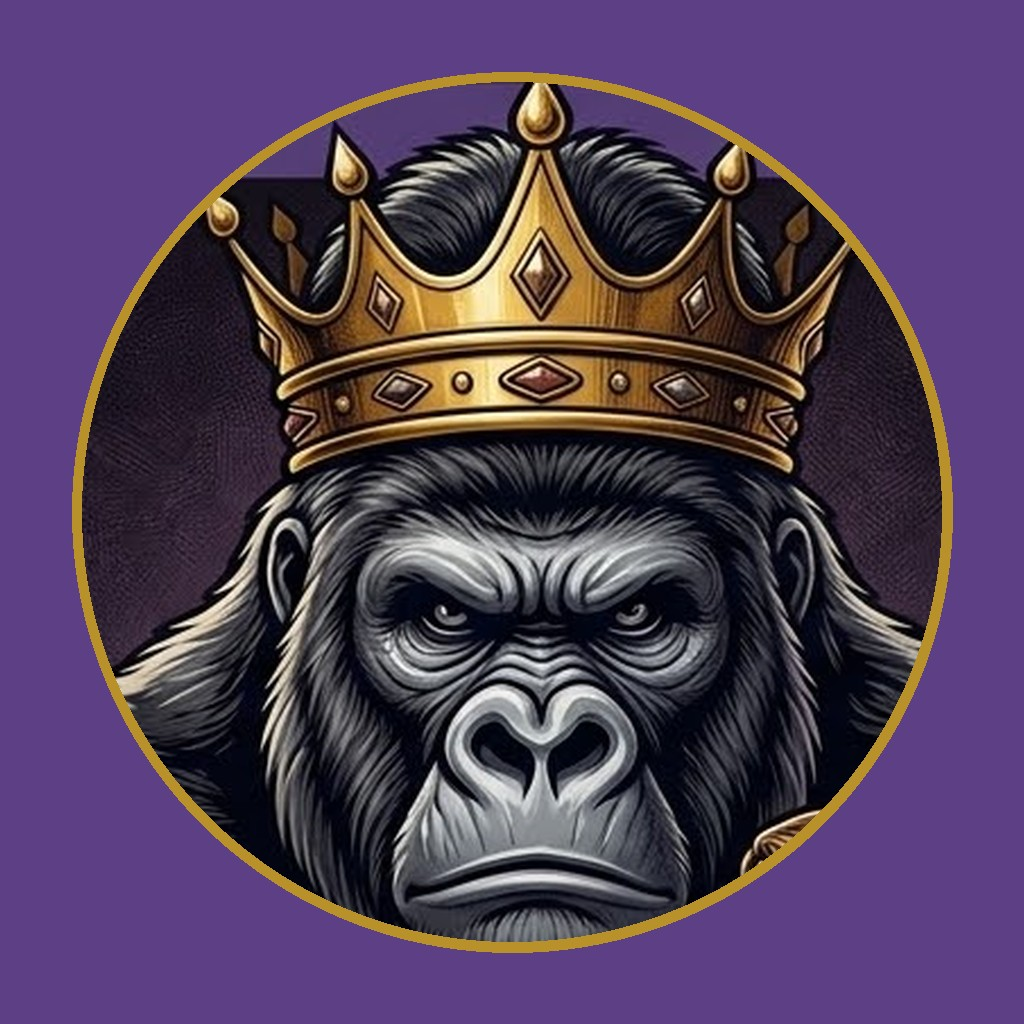
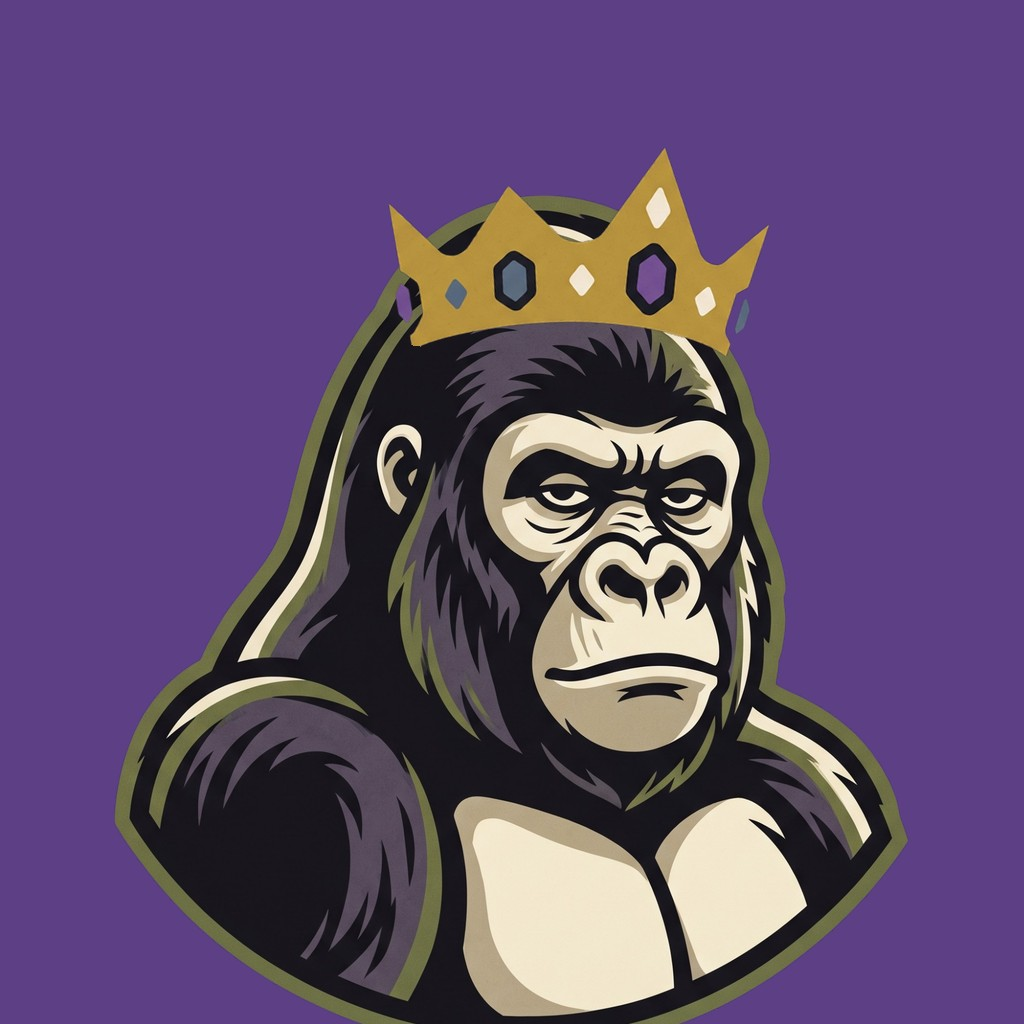
アイコンをゲーム中の絵（ゴリラの肖像＋王の冠）から作り直す
Claude-Session: https://claude.ai/code/session_01LM1BF6LuwjeTWqXiZY5rJo

diff --git a/README.md b/README.md
@@ -20,7 +20,7 @@
     index.html                  紹介ページ（ツール群共通の作り）
     app/index.html              ゲーム本体（単体で動く）
     assets/site.css             共通デザイン。アクセントだけ王の紫 #7a55a8
-    assets/icon.png             ポータルのカード用アイコン（冠をかぶったゴリラ。元絵 assets/icon-src.jpg から tools/make_icons.py で作る）
+    assets/icon.png             ポータルのカード用アイコン（ゲームのゴリラの肖像に王の冠を載せたもの。元絵 assets/icon-src.jpg から tools/make_icons.py で作る）
     assets/favicon.png          ファビコン
     assets/screen.png           紹介ページの画面（app を390px幅で撮ったもの）
     assets/goods.json           本の画像と価格（ワークフローが毎日更新）
